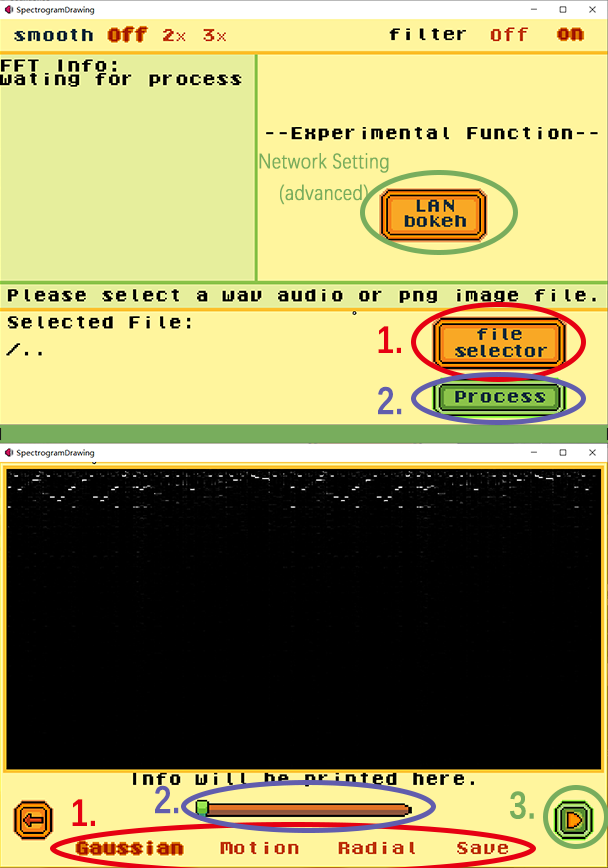
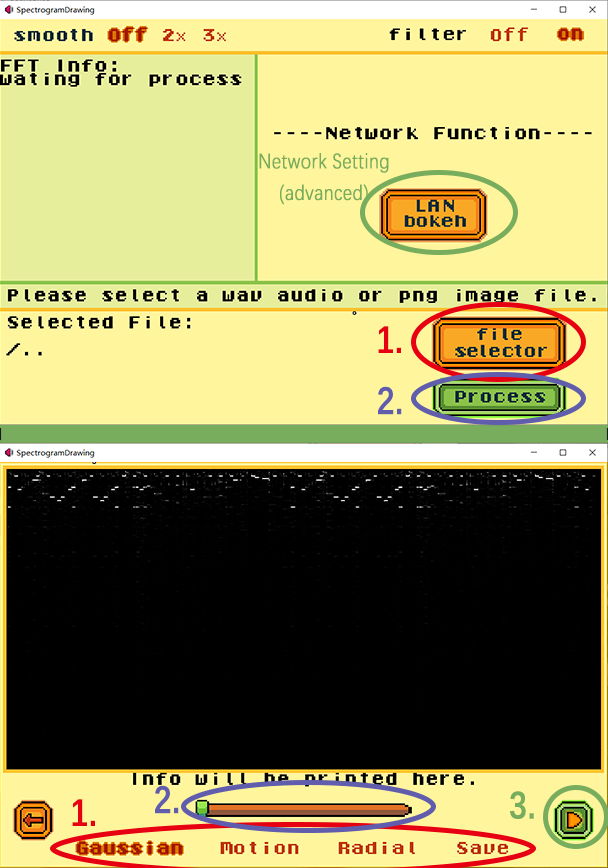
Optimized some details related to local network.

Changed region(s): [[0.4375, 0.1244, 0.9688, 0.1866]]

diff --git a/src/scenes/ClientScene.java b/src/scenes/ClientScene.java
@@ -39,7 +39,7 @@ public class ClientScene extends SoundEditScene {
 		isPlaying = false;
 		state = 0;
 		
-		clientString = new DrawString(" TEST \nCLIENT");
+		clientString = new DrawString("CLIENT");
 		clientString.setColor(180, 0, 0);
 	}
 	
@@ -101,15 +101,18 @@ public class ClientScene extends SoundEditScene {
 			break;
 		}
 		
-		clientString.draw(this, 580, height - 80, 16);
+		clientString.draw(this, 580, height - 64, 16);
 		
-		if(ClientThread.clientMessage.contains("11") && !isPlaying) {
-			posX = 0.0f;
-			play();
-			isPlaying = true;
-		}else if(ClientThread.clientMessage.contains("12") && isPlaying) {
-			posX = 0.0f;
-			isPlaying = false;
+		if(SpectrogramDrawing.main.getState() == 1) {
+			//Do not process messages from the host when quitting
+			if(ClientThread.clientMessage.contains("11") && !isPlaying) {
+				posX = 0.0f;
+				play();
+				isPlaying = true;
+			}else if(ClientThread.clientMessage.contains("12") && isPlaying) {
+				posX = 0.0f;
+				isPlaying = false;
+			}
 		}
 	}
 	

diff --git a/src/scenes/FileSelectScene.java b/src/scenes/FileSelectScene.java
@@ -27,7 +27,7 @@ public class FileSelectScene extends Scene {
 	private final static DrawString GUI_SELECTED_FILE = new DrawString("Selected File:");
 	public static DrawString soundInfo = new DrawString("FFT Info:\nwating for process");
 	private static String consoleString = "FFT Info:\nwating for process";
-	private static DrawString networkString = new DrawString("--Experimental Function--");
+	private static DrawString networkString = new DrawString("----Network Function----");
 
 	public FileSelectScene(int width, int height, PApplet parent) {
 		super(width, height, parent);
@@ -76,7 +76,7 @@ public class FileSelectScene extends Scene {
 		GUI_SELECTED_FILE.draw(this, 8, 352, 16);
 		workingPath.draw(this, 8, 384, 16);
 		filterSwitch.draw(this, 460, 11, 16);
-		networkString.draw(this, 312, 128, 16);
+		networkString.draw(this, 320, 128, 16);
 		
 		for(Button b : buttons) {
 			b.display(this);

diff --git a/src/scenes/HostScene.java b/src/scenes/HostScene.java
@@ -7,6 +7,7 @@ import base.SpectrogramDrawing;
 import interactable.BackButton;
 import interactable.HostPlaybackButton;
 import interactable.Interactable;
+import network.ServerTest;
 import processing.core.PApplet;
 import processing.core.PImage;
 
@@ -25,8 +26,15 @@ public class HostScene extends SoundEditScene {
 		isPlaying = false;
 		state = 0;
 		
-		clientString = new DrawString(" TEST \nSERVER");
+		clientString = new DrawString("SERVER");
 		clientString.setColor(180, 0, 0);
+	}
+	
+	@Override
+	public void quit() {
+		super.quit();
+		//Stop all clients when the host quits
+		ServerTest.sending = 2;
 	}
 	
 	public HostScene(PApplet parent, PImage image) throws IOException {
@@ -72,7 +80,7 @@ public class HostScene extends SoundEditScene {
 			i.display(this);
 		}
 		
-		clientString.draw(this, 580, height - 80, 16);
+		clientString.draw(this, 580, height - 64, 16);
 	}
 	
 }

diff --git a/src/base/SpectrogramDrawing.java b/src/base/SpectrogramDrawing.java
@@ -1,7 +1,7 @@
 package base;
 
 /*
- * @version 2.0.0
+ * @version 2.0.1
  * @author Shuangyuan Cao
  * @since 0.0.1
  * 
@@ -248,6 +248,10 @@ public class SpectrogramDrawing extends PApplet {
 		transitionController = -25;
 		state = 2;
 		AudioOutput.stopMusic();
+	}
+	
+	public int getState() {
+		return state;
 	}
 	
 	public void transitToFileSelection() {

diff --git a/src/scenes/SoundEditScene.java b/src/scenes/SoundEditScene.java
@@ -70,6 +70,7 @@ public class SoundEditScene extends Scene {
 	
 	public void quit() {
 		spectrogram.endSound(SpectrogramDrawing.minim.getLineOut());
+		isPlaying = false;
 	}
 	
 	public SoundEditScene(PApplet parent, PImage image) throws IOException {

diff --git a/README.md b/README.md
@@ -16,7 +16,7 @@ Setup:
 The wav saving requires to start a recorder and play the audio once, and all input will be ignored during the record.
 
 7. The "LAN bokeh" button will lead to a pop-out window asking to set up network for entering a multi-device synchronizing mode.
-To use this mode, please refer to the "v.2.0 New Experimental Function" section of this Readme file.
+To use this mode, please refer to the "v.2.0 New Function" section of this Readme file.
 In this mode, only a host can play or stop the audio, while only the clients can edit the audio.
 Please also note that, after entering this mode, the user can close the pop-out window to go back to the normal mode.
 
@@ -35,7 +35,7 @@ For more specified information about the codes, please refer to the top area of 
 
 
 -----------------------------------------------------
-v.2.0 New Experimental Function (LAN Network Bokeh):
+v.2.0 New Function (LAN Network Bokeh):
 -----------------------------------------------------
 
 To use this function, please click the "LAN Bokeh" button on the file selection page.
@@ -48,10 +48,11 @@ A host is a must for creating a local network room, no clients can connect to th
 Clients can connect to the room the host created with the IP address and port number provided by the host.
 
 To create a room as the host, input the number of clients that will connect to your room in the "address/client number" area.
-As for port, you can input any integer as long as its length is between 4-5 digits (and has not been occupied by other progresses).
+As for port, you can input any integer as long as its length is between 4-5 digits.
+However, due to the setting of JAVA's Socket class, you may not always get the port you want.
 Please be sure about the number of clients, as you cannot successfully create your room before all expected clients have connected to the room.
 Please also note that if there is no new client connecting to your room for 2 minutes before you get all expected clients in your room, the room will be timed out and cancelled.
-If your room has been created sucessfully, your window will show a string like "Server started".
+If your room has been created successfully, your window will show a string like "Server started".
 
 To join a room as a client, please first ensure that your device is in the same Wi-Fi with the host.
 Then please input the room host's IP address in the "address/client number" area.
@@ -61,6 +62,7 @@ Input these information and click the "run as client" button.
 If you have connected successfully, the window will show a string like "Just connected to /192.168.1.1:0000".
 
 To cancel a room and go back to normal mode, just close the LAN window.
+If you want to keep your room, please leave the pop-out window running in the background.
 
 ![image](https://github.com/El-Mundo/Soundshop/blob/master/hostandclient.png)
 
@@ -124,3 +126,5 @@ Update v.1.0.5(13/12/2021): Fixed a BUG that the program cannot exit properly wh
 Update v.1.0.6(13/12/2021): Fixed the radial blur filter.
 
 Update v.2.0.0(14/12/2021): Added local network connection.
+
+Update v.2.0.1(14/12/2021): Optimized some details related to local network.
